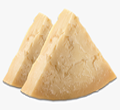
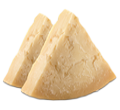
add array of card images, place images, update parmesan.png

diff --git a/week5/5.a/memorygame.js b/week5/5.a/memorygame.js
@@ -1,10 +1,14 @@
-let myCard;
+// let myCard;
 
 const DOWN = 'down';
 const UP = 'up';
 
+let cards = [];
+let startingX = 120;
+let startingY = 100;
+
 let cardback;
-let cardfaceArray;
+let cardfaceArray = [];
 
 
 function preload() {
@@ -25,11 +29,36 @@ function preload() {
 function setup() {
   createCanvas(windowWidth, windowHeight);
   background(0);
-  myCard = new Card();
+ // myCard = new Card();
+  let selectedFaces = [];
+  for (let a = 0; a < 8; a++) {
+    const randomIdx = floor(random(cardfaceArray.length));
+    const face = cardfaceArray[randomIdx];
+    // each card appears twice in the grid, 16 total
+    selectedFaces.push(face);
+    selectedFaces.push(face);
+    // remove cardface
+    cardfaceArray.splice(randomIdx, 1);
+  }
+  selectedFaces = shuffleArray(selectedFaces);
+  for (let b = 0; b < 2; b++) { // 2 rows
+    for (let c = 0; c < 8; c++) { // 8 cards each
+      const faceImage = selectedFaces.pop();
+      cards.push(new Card(startingX, startingY, faceImage));
+        startingX += 140;
+        }
+        startingY += 250;
+        startingX = 120; // restarting X in the second row
+    }
 }
 
 function mousePressed() {
-  console.log(myCard.didHit(mouseX, mouseY));
+  // console.log(myCard.didHit(mouseX, mouseY));
+  for (let d = 0; d < cards.length; d++) {
+    if(cards[d].didHit(mouseX, mouseY)) {
+      console.log('flipped', cards[d]); // which cards in the array are flipped over
+    }
+  }
 }
 
 // function draw () {
@@ -41,21 +70,24 @@ function mousePressed() {
 // }
 
 class Card {
-  constructor () {
-    this.x = 100;
-    this.y = 100;
+  constructor (x, y, cardFaceImage) {
+    this.x = x;
+    this.y = y;
     this.width = 120;
     this.height = 220;
     this.face = DOWN;
+    this.cardFaceImage = cardFaceImage;
     this.show();
   }
   show () {
     if (this.face === DOWN) {
-      fill(200, 200, 200);
+      // fill(200, 200, 200);
       rect(this.x, this.y, this.width, this.height, 5);
+      image(cardback, this.x, this. y);
     } else {
-      fill(255, 0, 0);
+      fill(27, 73, 148);
       rect(this.x, this.y, this.width, this.height, 5);
+      image(this.cardFaceImage, this.x, this.y);
     }
   }
 
